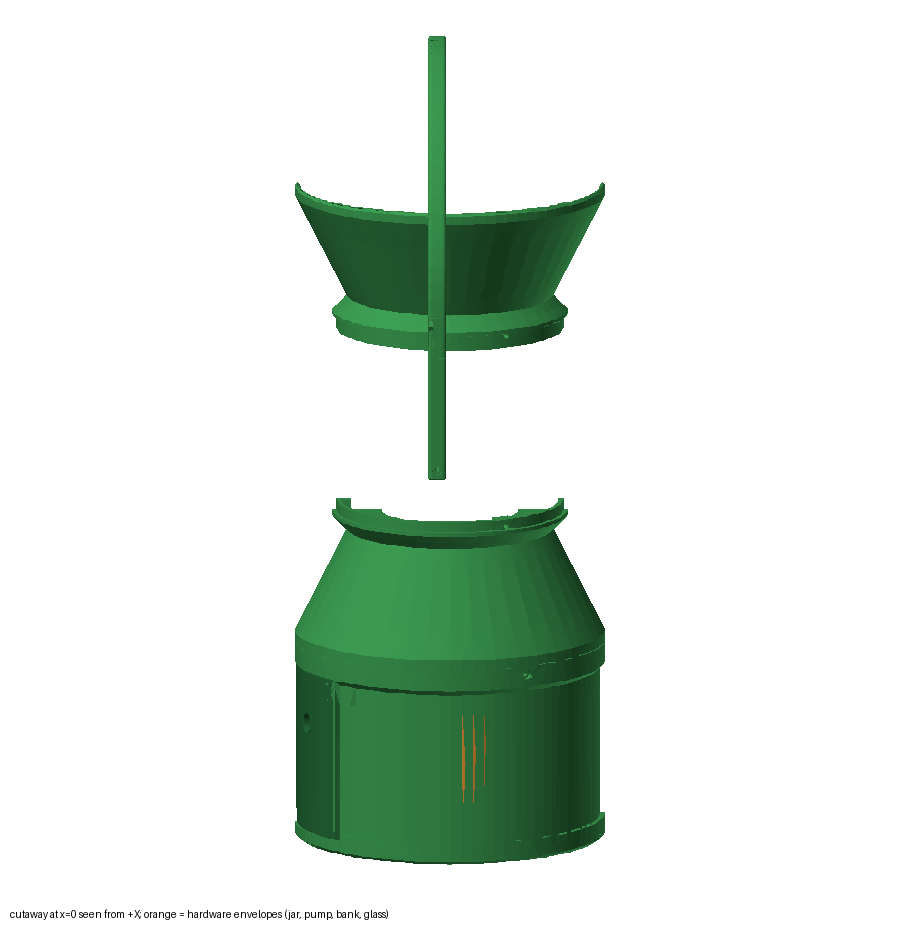
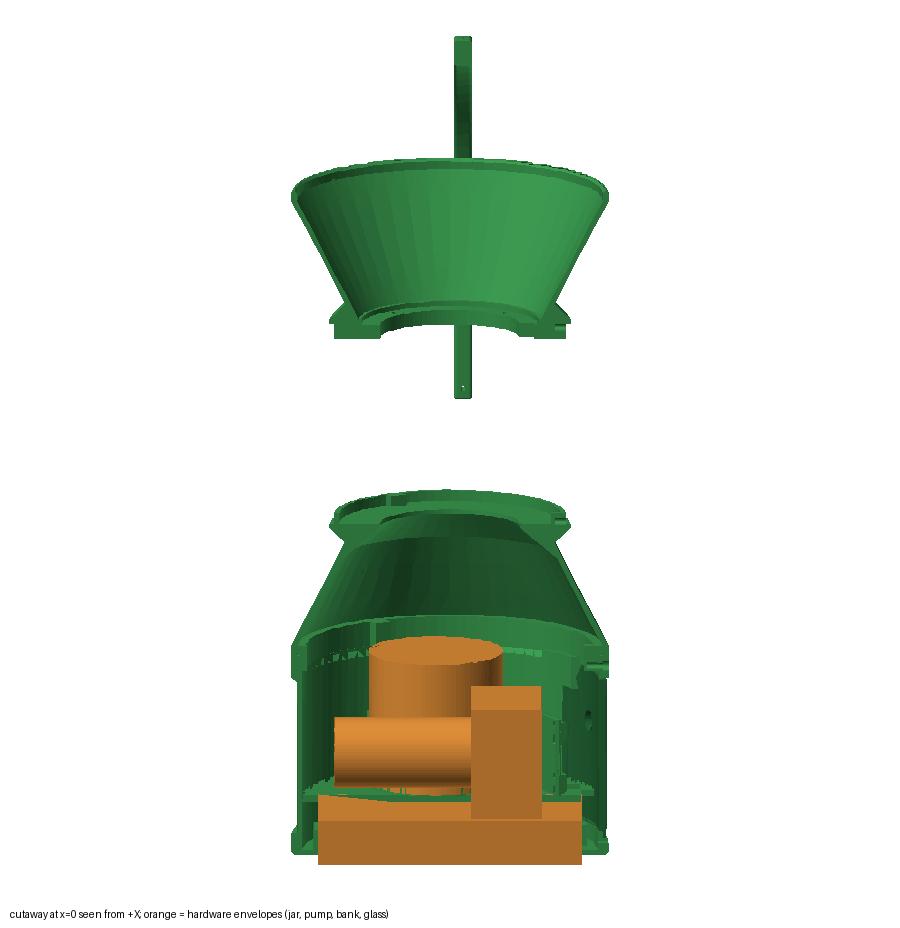
CAD renders: cutaway camera fix
Claude-Session: https://claude.ai/code/session_01RA7Cpt4fWuKXDa6DwBe3et

Changed region(s): [[0.3111, 0.0312, 0.6844, 0.9375]]

diff --git a/cad/render_views.py b/cad/render_views.py
@@ -116,7 +116,7 @@ def main():
             cut.append((s, COLORS.get(n, GREEN)))
     for n, m in envelopes.items():
         cut.append((m, ORANGE))
-    render(cut, os.path.join(IMG, 'cad-cutaway.png'), az=90, el=12, title='cutaway at x=0 seen from +X; orange = hardware envelopes (jar, pump, bank, glass)')
+    render(cut, os.path.join(IMG, 'cad-cutaway.png'), az=-90, el=12, title='cutaway at x=0 seen from +X; orange = hardware envelopes (jar, pump, bank, glass)')
 
     # exploded: lift each printed part by its order in Z
     names = sorted(printed, key=lambda n: printed[n].bounds[0][2])
